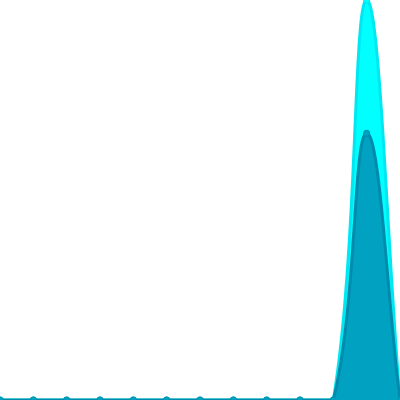
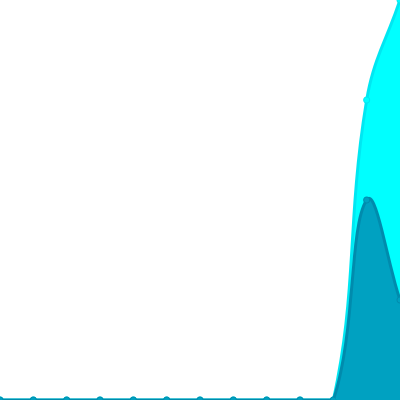
Update views

Changed region(s): [[0.81, 0.0, 1.0, 0.99]]

diff --git a/readme/574518036/year.md b/readme/574518036/year.md
@@ -23,10 +23,10 @@
 			<code>2023/1/1</code>
 		</td>
 		<td>
-			<code>0</code>
+			<code>1</code>
 		</td>
 		<td>
-			<code>0</code>
+			<code>4</code>
 		</td>
 	</tr>
 	<tr>
@@ -164,7 +164,7 @@
 </table>
 
 </details>
-<small><i>Last updated on 2023/1/6 12:23 PM UTC</i></small>
+<small><i>Last updated on 2023/1/6 6:15 PM UTC</i></small>
 
 ## ✂Copy and 📋 Paste
 ### SVG Badge

diff --git a/README.md b/README.md
@@ -69,7 +69,7 @@ The project created and maintained by [gayanvoice](https://github.com/gayanvoice
 	</tr>
 </table>
 
-<small><i>Last updated on 2023/1/6 12:23 PM UTC</i></small>
+<small><i>Last updated on 2023/1/6 6:15 PM UTC</i></small>
 
 ## ✂Copy and 📋 Paste
 ### Total Views Badge

diff --git a/readme/578652583/year.md b/readme/578652583/year.md
@@ -164,7 +164,7 @@
 </table>
 
 </details>
-<small><i>Last updated on 2023/1/6 12:23 PM UTC</i></small>
+<small><i>Last updated on 2023/1/6 6:14 PM UTC</i></small>
 
 ## ✂Copy and 📋 Paste
 ### SVG Badge

diff --git a/readme/582108413/year.md b/readme/582108413/year.md
@@ -164,7 +164,7 @@
 </table>
 
 </details>
-<small><i>Last updated on 2023/1/6 12:23 PM UTC</i></small>
+<small><i>Last updated on 2023/1/6 6:15 PM UTC</i></small>
 
 ## ✂Copy and 📋 Paste
 ### SVG Badge
